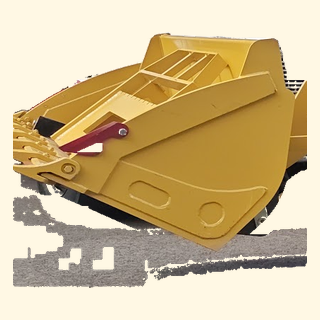
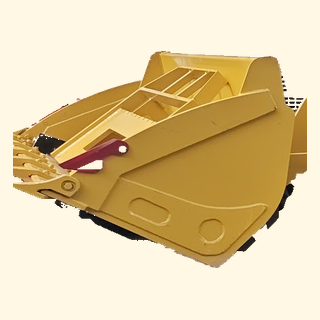
Remove the asphalt fringe from under the bucket teeth.
The scoop keeps its yellow triangle and the cutting edge. The grey ground that was stuck to the lip is transparent, and the teeth sit just above the ground.

diff --git a/bernie/loader/loader.js b/bernie/loader/loader.js
@@ -12,7 +12,7 @@
     { id: "engine", name: "Engine", src: "img/engine.webp", x: 154, y: 39, w: 840, h: 442, group: "body" },
     { id: "cab", name: "Cab", src: "img/cab.webp", x: 451, y: 5, w: 310, h: 251, group: "body" },
     { id: "arms", name: "Lift arms", src: "img/arms.webp", x: 72, y: 170, w: 474, h: 279, group: "arms" },
-    { id: "bucket", name: "Bucket", src: "img/bucket.webp", x: 0, y: 300, w: 311, h: 270, group: "bucket" }
+    { id: "bucket", name: "Bucket", src: "img/bucket.webp", x: 0, y: 345, w: 311, h: 230, group: "bucket" }
   ];
   /* Boom pin on the chassis. The bucket sits left and below it, so a positive
      turn lifts the arms and the bucket. */
